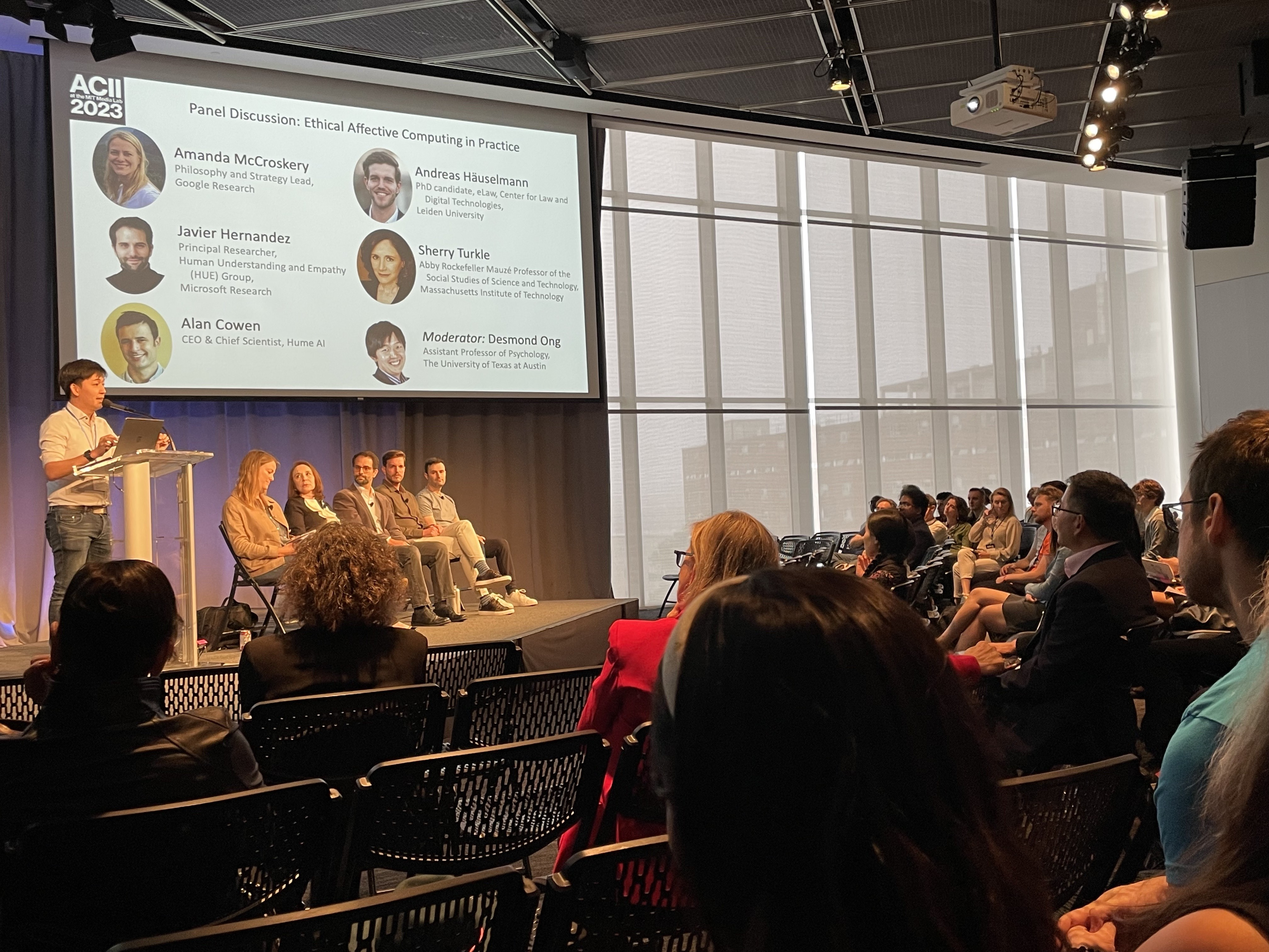
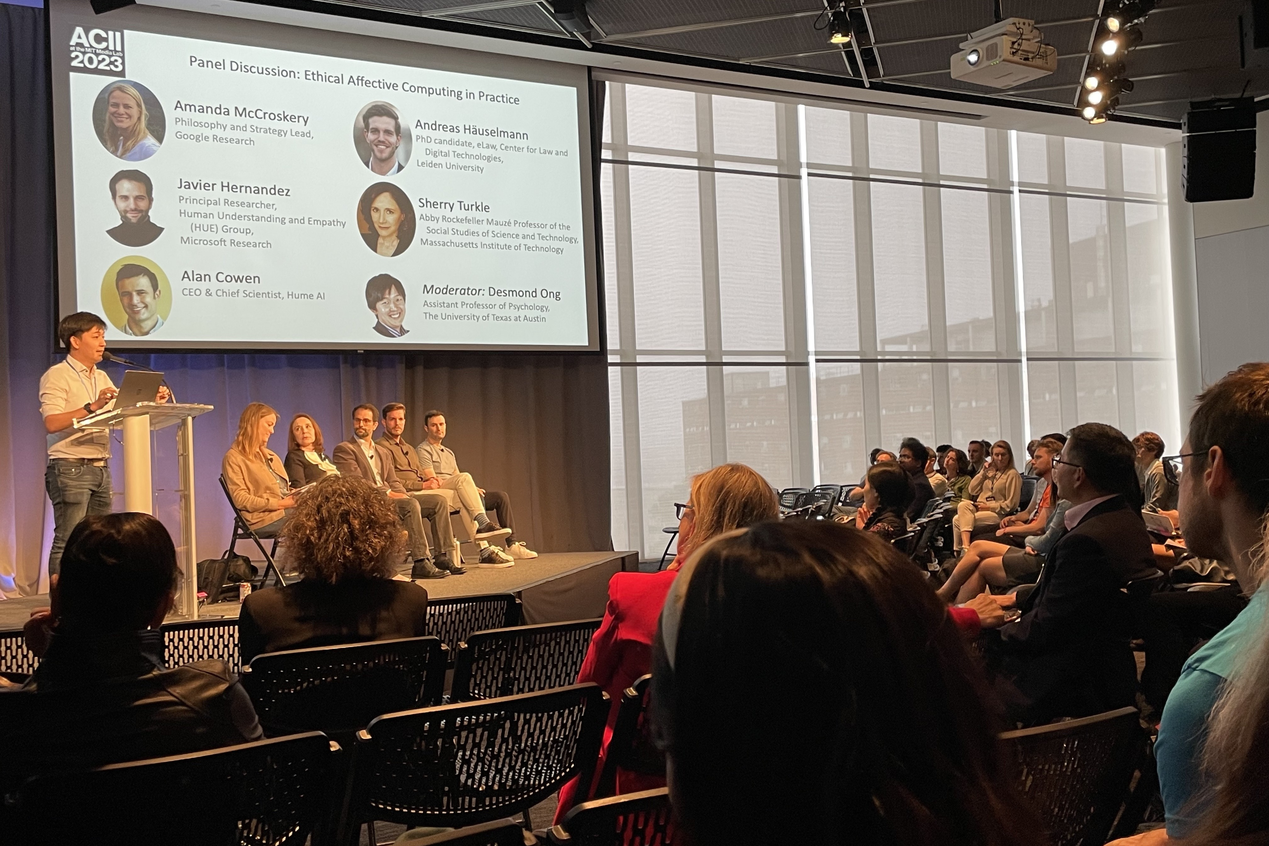
update lab members

diff --git a/people.html b/people.html
@@ -120,18 +120,6 @@
               <h2>Research Affiliates</h2>
             </div>
 
-            
-
-
-            <div class="col-md-3 lab-member">
-              <img class="img-fluid img-profile border-wrap mb-3" src="img/lab/nyx.jpeg"  alt="Nyx L. Ng">
-            </div>
-            <div class="col-md-9 lab-member">
-              <h3><a class="subtle_link" name="Nyx L. Ng" href="https://nyxlng.com/">Nyx L. Ng</a></h3>
-              <h5>nyx (at) utexas.edu</h5>
-                I am a PhD candidate working primarily with the Social Cognition Lab at UT Austin. My primary research program on morality is concerned with understanding (1) factors underlying moral judgments, beliefs, and perceptions, and (2) the consequences of moral disagreements and misguided moral perceptions. My secondary research program on misinformation is concerned with uncovering (1) factors underlying misinformation susceptibility and (2) potential ways of counteracting the problem. I am currently collaborating with the CASCog lab on projects investigating the links between empathy and morality.
-            </div>
-
             <div class="col-md-3 lab-member">
               <img class="img-fluid img-profile border-wrap mb-3" src="img/lab/hongli.jpg"  alt="Hongli Zhan">
             </div>
@@ -232,7 +220,9 @@
             </div>
             <div class="col-md-12 lab-member">
 
-              <h5 style="display: inline">Shaina Munin</h5>: Was: Research Affiliate at UT Austin, Now: Visiting Assistant Professor at Ohio Wesleyan University <br>
+
+              <h5 style="display: inline">Nyx L. Ng</h5>: Was: Affiliated PhD Student at UT Austin, Now: Postdoctoral Researcher at New York University <br>
+              <h5 style="display: inline">Shaina Munin</h5>: Was: Affiliated PhD Student at UT Austin, Now: Visiting Assistant Professor at Ohio Wesleyan University <br>
 
               <h5 style="display: inline">Purna Zaman</h5>: Was: Lab Manager at UT Austin <br>
               <h5 style="display: inline">Ryan Truong</h5>: Was: Research Assistant at UT Austin, Now: Ph.D. Student at Harvard University <br>
@@ -241,6 +231,7 @@
 
               <h5 style="display: inline">Yoon Kyung Lee</h5>: Was: Visiting Graduate Student from Seoul National University <br>
 
+              <br>
               <h5 style="display: inline"><a href="https://zen-wu.social/">Wu Zhengxuan</a></h5>: Was: Research Assistant; Now: Ph.D. Student in Computer Science at Stanford <br>
 
               <h5 style="display: inline">Gerard Yeo</h5>: Was: Ph.D. Student in Data Science at NUS <br>

diff --git a/index.html b/index.html
@@ -107,16 +107,23 @@
                 <li data-target="#labphotodiv" data-slide-to="5"></li>
                 <li data-target="#labphotodiv" data-slide-to="6"></li>
                 <li data-target="#labphotodiv" data-slide-to="7"></li>
+                <li data-target="#labphotodiv" data-slide-to="8"></li>
                 <!-- <li data-target="#labphotodiv" data-slide-to="2"></li> -->
               </ol>
               <div class="carousel-inner">
                 <div class="carousel-item active">
+                  <img class="img-fluid my-auto" src="img/lab/2026-SAS-lab-photo-crop.jpg" alt="March 2026">
+                  <div class="carousel-caption d-none d-md-block">
+                    <p>CASCogLab at the Society for Affective Science Conference, March 2026</p>
+                  </div>
+                </div>
+                <div class="carousel-item">
                   <img class="img-fluid my-auto" src="img/lab/TRIgroup.jpg" alt="April 2024">
                   <div class="carousel-caption d-none d-md-block">
                     <p>CASCogLab at the TRI Conference, April 2024</p>
                   </div>
                 </div>
-              <div class="carousel-item">
+                <div class="carousel-item">
                   <img class="img-fluid my-auto" src="img/lab/2023-fall-lab-photo.jpg" alt="September 2023">
                   <div class="carousel-caption d-none d-md-block">
                     <p>CASCogLab, September 2023</p>
